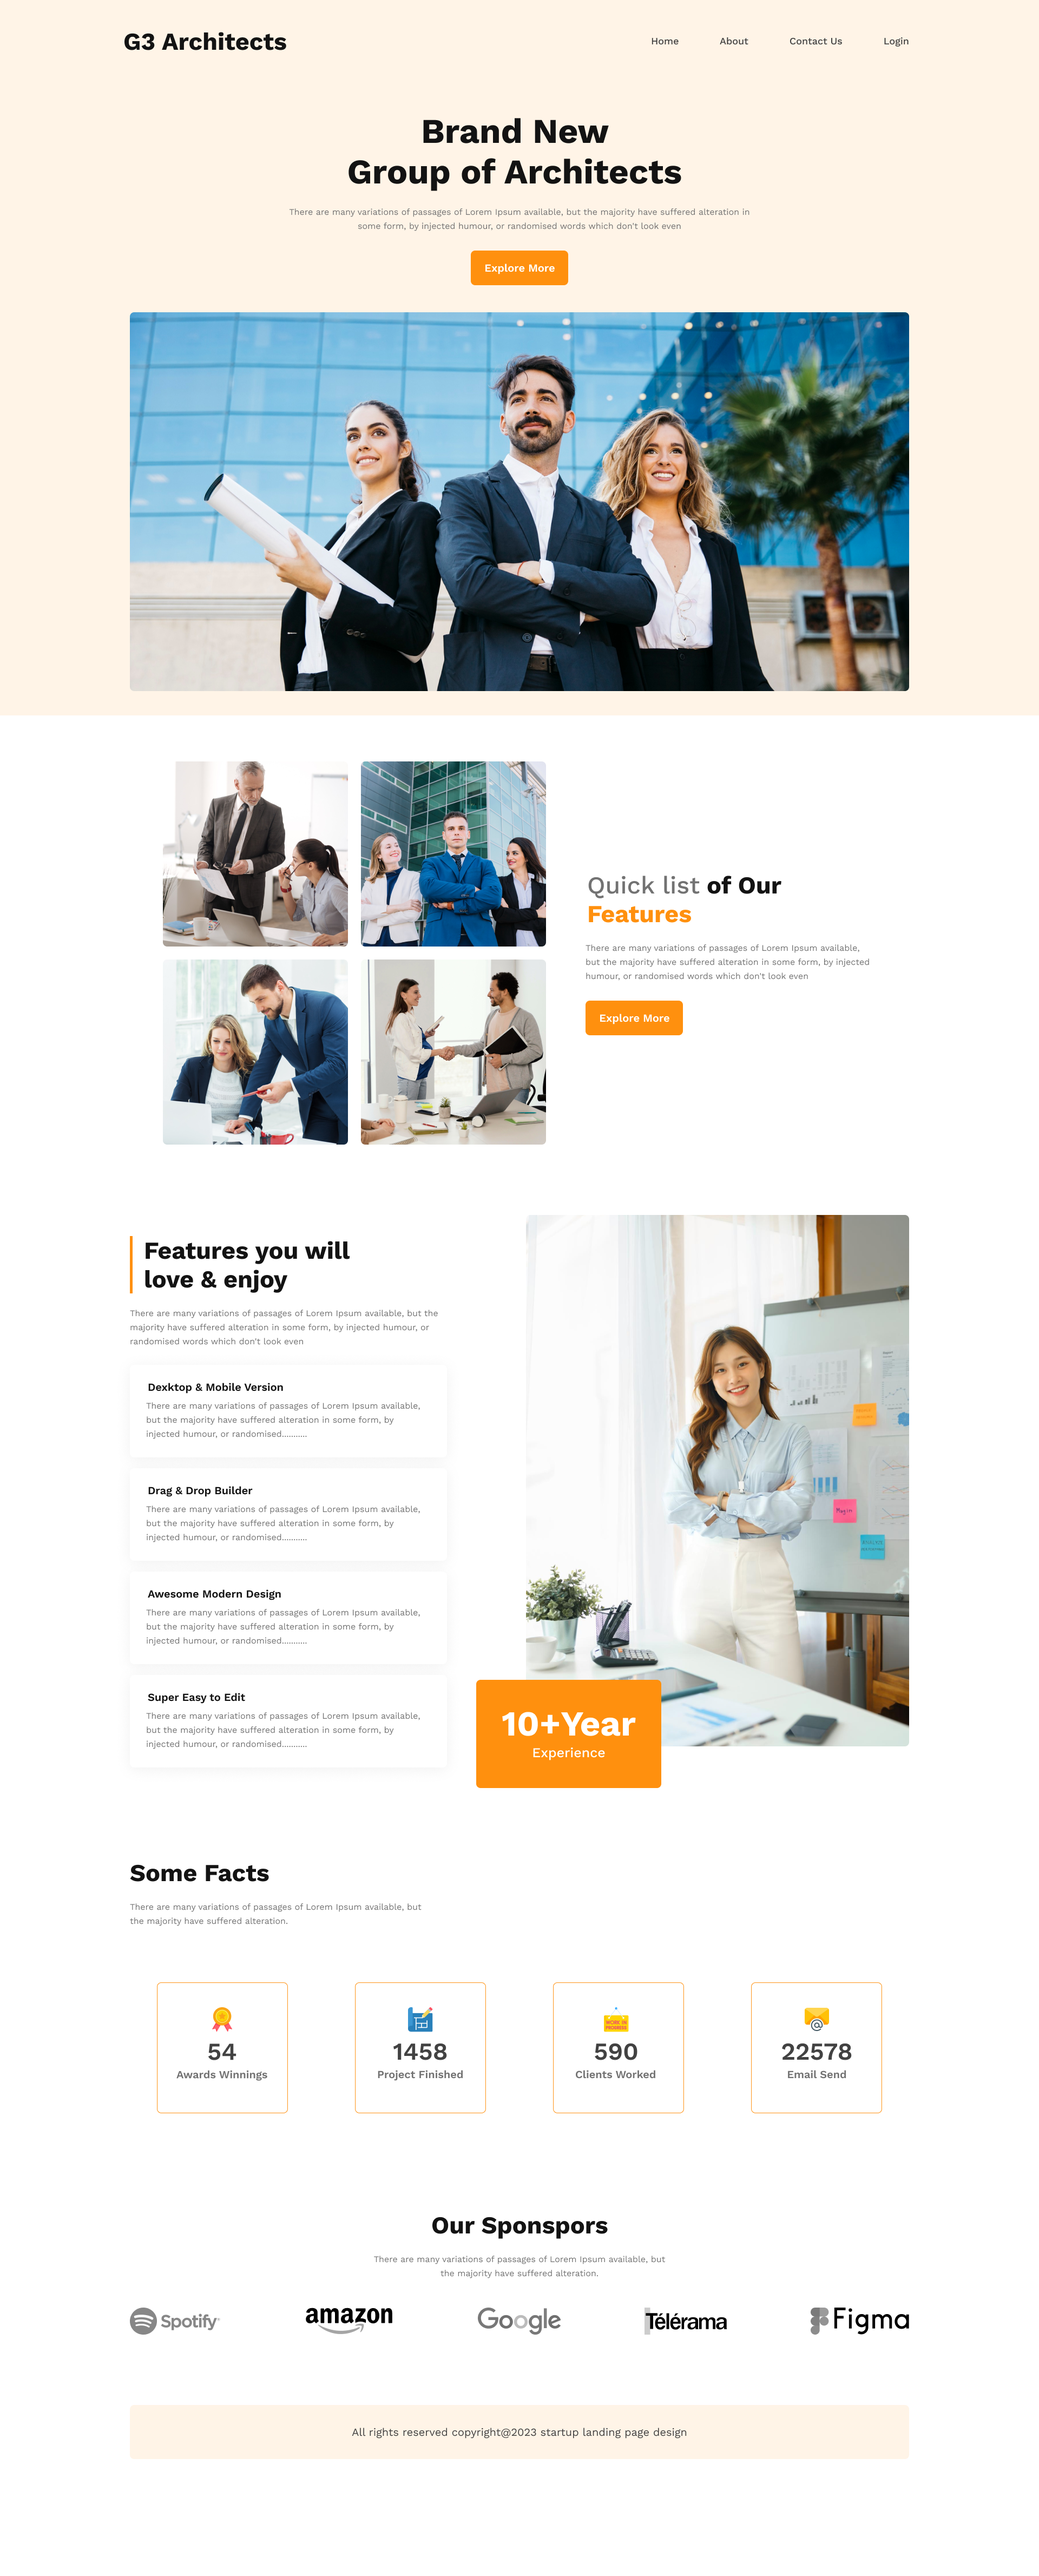
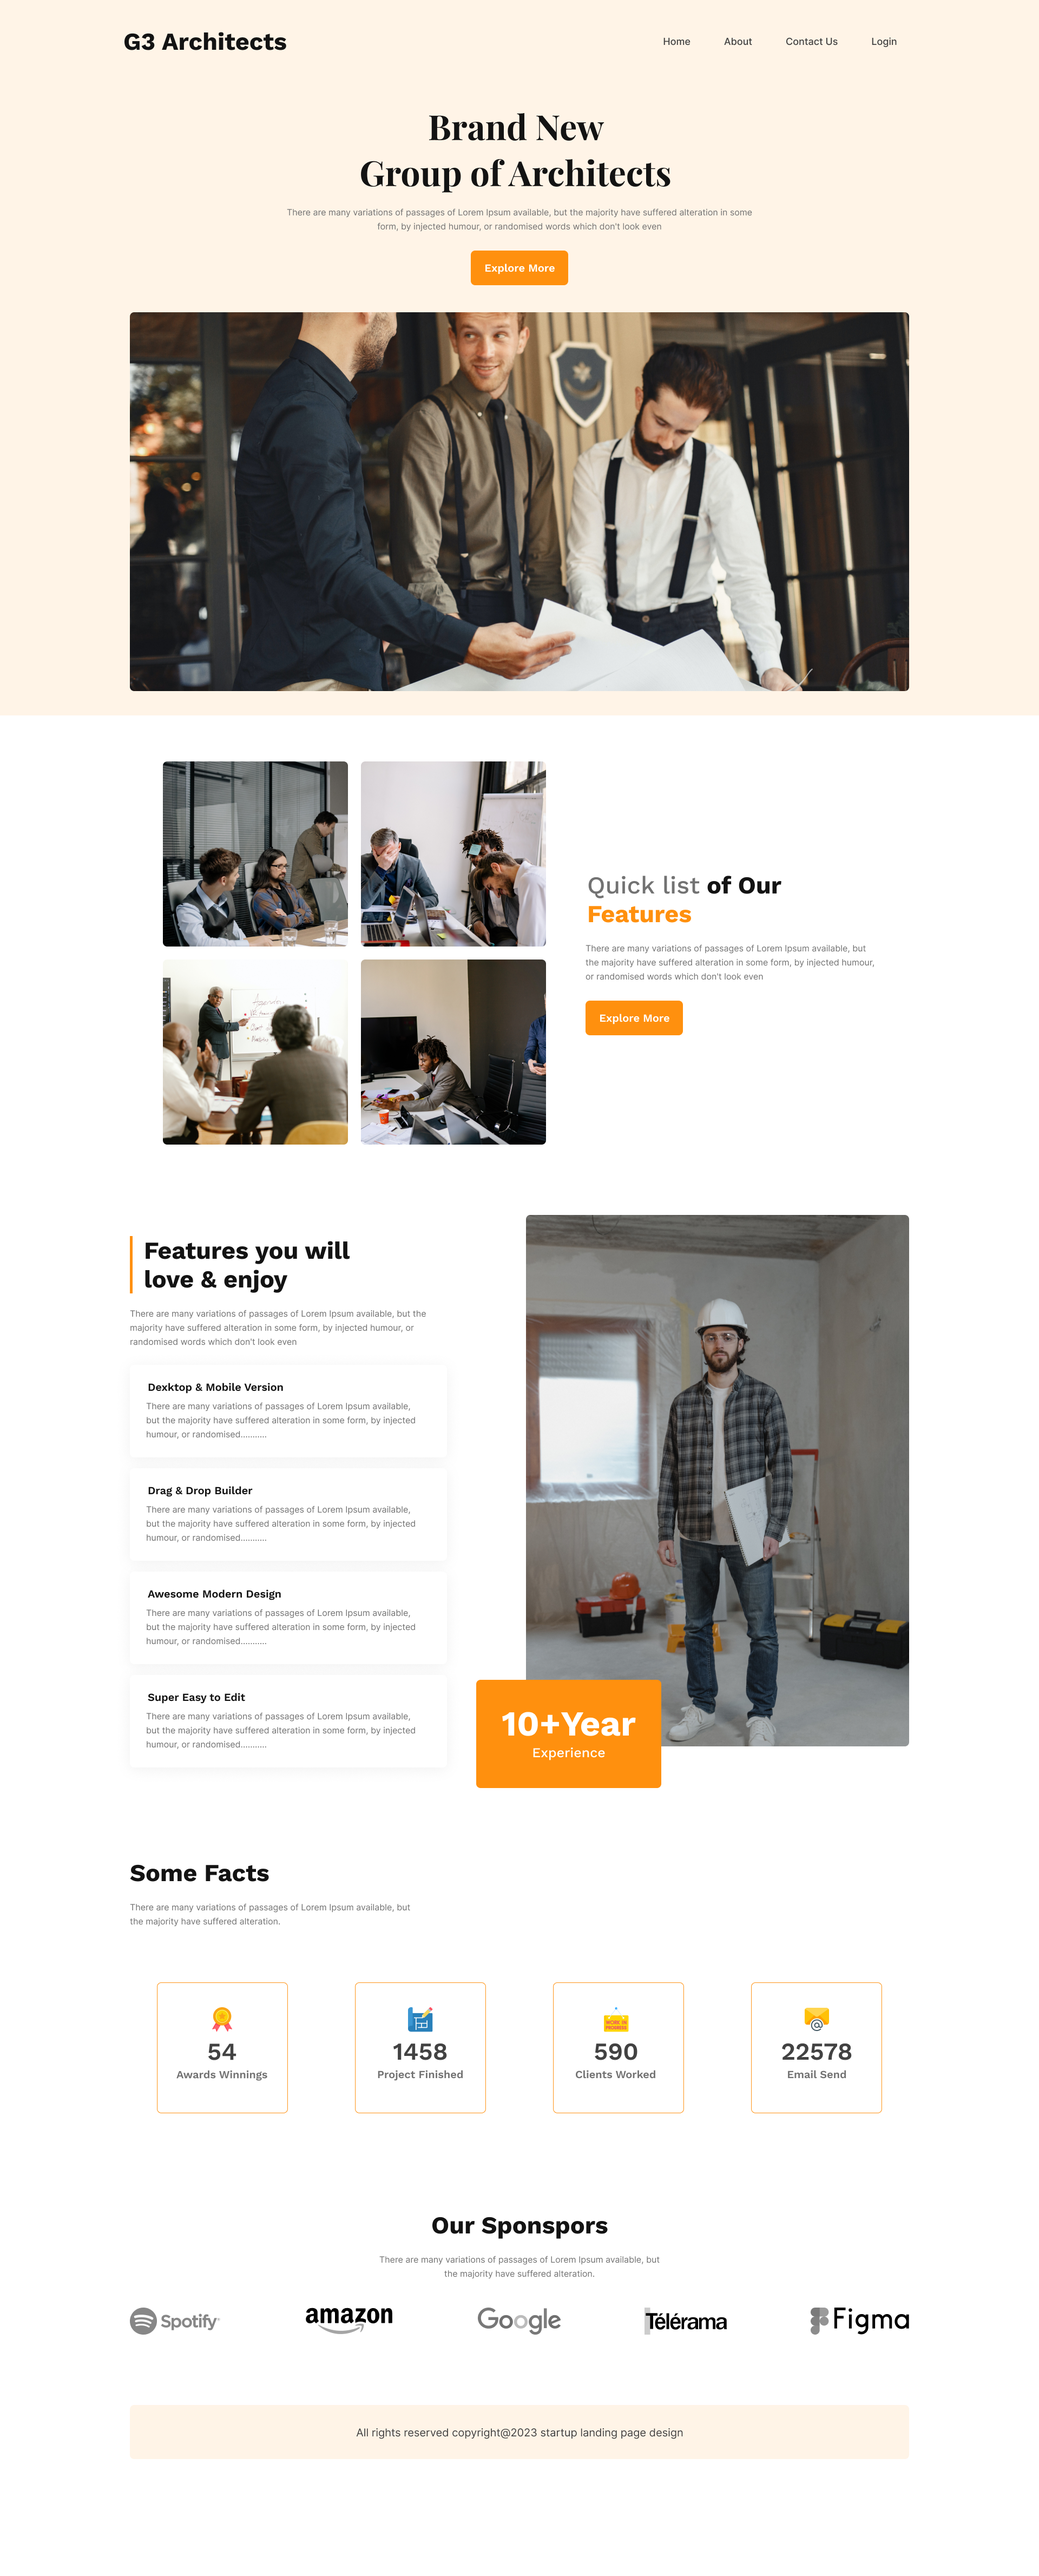
added features section

Changed region(s): [[0.125, 0.0311, 0.875, 0.684], [0.125, 0.4975, 0.2812, 0.5597], [0.1562, 0.6218, 0.2812, 0.684]]

diff --git a/index.html b/index.html
@@ -38,12 +38,13 @@
           <p>
             There are many variations of passages of Lorem Ipsum available, but
             the majority have suffered alteration in some form, by injected
-            humour, or randomised words which don't look even. Lorem ipsum dolor sit amet consectetur adipisicing elit. Dolorum, dolor.
+            humour, or randomised words which don't look even. Lorem ipsum dolor
+            sit amet consectetur adipisicing elit. Dolorum, dolor.
           </p>
           <button class="btn-primary">Explore More</button>
         </div>
         <div class="hero-banner">
-          <img src="assets/img/banner.png" alt="">
+          <img src="assets/img/banner.png" alt="" />
         </div>
       </div>
     </header>
@@ -55,14 +56,18 @@
       <section id="team-section">
         <div class="team-container container">
           <div class="team-grid-img">
-            <img src="assets/img/Rectangle 14.png" alt="">
-            <img src="assets/img/Rectangle 15.png" alt="">
-            <img src="assets/img/Rectangle 16.png" alt="">
-            <img src="assets/img/Rectangle 17.png" alt="">
+            <img src="assets/img/Rectangle 14.png" alt="" />
+            <img src="assets/img/Rectangle 15.png" alt="" />
+            <img src="assets/img/Rectangle 16.png" alt="" />
+            <img src="assets/img/Rectangle 17.png" alt="" />
           </div>
           <div class="team-content">
             <h2><span>Quick list</span>of our <span>features</span></h2>
-            <p>There are many variations of passages of Lorem Ipsum available, but the majority have suffered alteration in some form, by injected humour, or randomised words which don't look even</p>
+            <p>
+              There are many variations of passages of Lorem Ipsum available,
+              but the majority have suffered alteration in some form, by
+              injected humour, or randomised words which don't look even
+            </p>
             <button class="btn-primary">Explore More</button>
           </div>
         </div>
@@ -70,7 +75,49 @@
       <!----------------------------
             features section
       ----------------------------->
-      <section id="features"></section>
+      <section id="features">
+        <div class="features-container container">
+          <!-- left side -->
+          <div class="features-content">
+            <!-- content heading, para -->
+            <div class="features-content-heading">
+              <h2>Features you will love & enjoy</h2>
+              <p>
+                There are many variations of passages of Lorem Ipsum available,
+                but the majority have suffered alteration in some form, by
+                injected humour, or randomised words which don't look even
+              </p>
+            </div>
+            <!-- content cards -->
+            <div class="features-content-cards">
+              <div class="card" id="card1">
+                <h3>Desktop & Mobile Version</h3>
+                <p>There are many variations of passages of Lorem Ipsum available, but the majority have suffered alteration in some form, by injected humour, or randomised...</p>
+              </div>
+              <div class="card" id="card2">
+                <h3>Desktop & Mobile Version</h3>
+                <p>There are many variations of passages of Lorem Ipsum available, but the majority have suffered alteration in some form, by injected humour, or randomised...</p>
+              </div>
+              <div class="card" id="card1">
+                <h3>Desktop & Mobile Version</h3>
+                <p>There are many variations of passages of Lorem Ipsum available, but the majority have suffered alteration in some form, by injected humour, or randomised...</p>
+              </div>
+              <div class="card" id="card2">
+                <h3>Desktop & Mobile Version</h3>
+                <p>There are many variations of passages of Lorem Ipsum available, but the majority have suffered alteration in some form, by injected humour, or randomised...</p>
+              </div>
+            </div>
+          </div>
+          <!-- right side -->
+          <div class="features-img-container">
+            <img src="assets/img/architect.png" alt="" class="features-img">
+            <div class="img-card">
+              <h2 class="img-title">10+ Year</h2>
+              <p class="img-para">Experience</p>
+            </div>
+          </div>
+        </div>
+      </section>
       <!----------------------------
             showcase section
       ----------------------------->

diff --git a/assets/css/style.css b/assets/css/style.css
@@ -59,7 +59,7 @@ p {
 }
 .btn-primary {
   padding: 1.25rem 1.5rem;
-  border-radius: .3125rem;
+  border-radius: 0.3125rem;
   color: white;
   background-color: #ff900e;
   font-family: "work sans", sans-serif;
@@ -124,7 +124,7 @@ p {
     team section styling
 --------------------------- */
 #team-section {
-  padding-block: 6rem;
+  padding-block: 8rem;
 }
 .team-container {
   display: flex;
@@ -139,4 +139,58 @@ p {
 }
 .team-content p {
   margin-bottom: 2rem;
+}
+/* ---------------------------
+    features section styling
+--------------------------- */
+#features {
+  padding-block: 8rem;
+}
+.features-container {
+  display: flex;
+  align-items: center;
+  justify-content: space-between;
+  gap: 9rem;
+}
+.features-content-heading {
+  margin-bottom: 2rem;
+}
+.features-content-heading h2 {
+  padding-left: 1.5rem;
+  border-left: 5px solid #ff900e;
+  max-width: 30rem;
+}
+.features-content-cards {
+  display: flex;
+  flex-direction: column;
+  gap: 1.25rem;
+}
+.features-content-cards .card {
+  border-radius: 0.3125rem;
+  background: #fff;
+  padding: 1.5rem;
+  box-shadow: 0px 4px 30px 0px rgba(0, 0, 0, 0.06);
+}
+.features-img-container {
+  position: relative;
+}
+.img-card {
+  background-color: #ff900e;
+  width: 20rem;
+  text-align: center;
+  padding: 3rem;
+  border-radius: 0.625rem;
+  position: absolute;
+  bottom: -3.75rem;
+  left: -5.9375rem;
+}
+.img-title {
+  margin: 0;
+  color: white;
+  font-size: 3.4375rem;
+}
+.img-card p {
+  font-size: 1.5625rem;
+  margin-top: 0.625rem;
+  color: white;
 }
